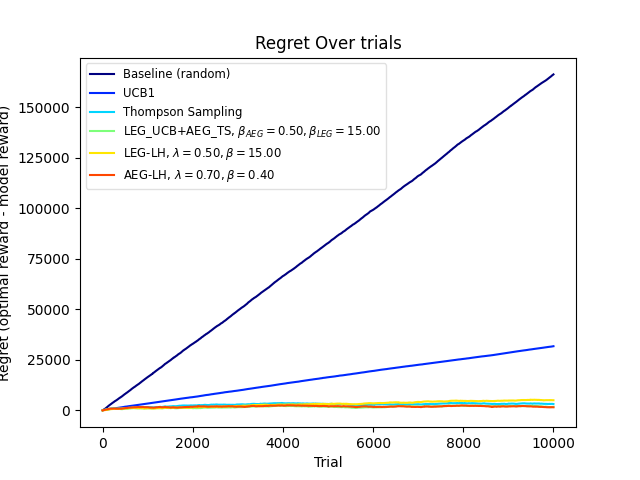
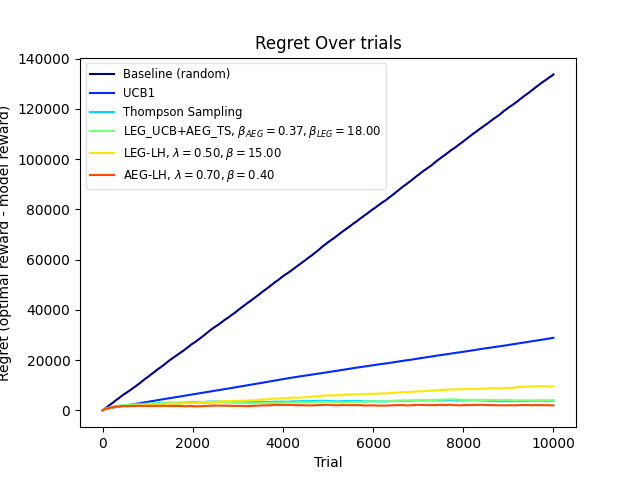
final commit

diff --git a/Driver.py b/Driver.py
@@ -12,9 +12,9 @@ def reload_imports():
 
 
 MIN_SEED = 90
-MAX_SEED = 98
-N = 10
-K = 2
+MAX_SEED = 99
+N = 20
+K = 1
 T = 10000
 POSSIBLE_REWARDS = np.asarray([5, 10, 20, 30, 50])
 get_reward_probabilities = lambda: np.random.dirichlet(np.ones_like(POSSIBLE_REWARDS))
@@ -128,6 +128,20 @@ convergences, rewards, fr_metrics, regret = average_over_seeds(
     model_parameters_list)
 vis.plot_lambda_beta_surface(beta_list, lambda_list, lambda_beta_rewards[1:], title="Reward Slope")
 vis.plot_lambda_beta_surface(beta_list, lambda_list, lambda_beta_regret[1:], title="Regret Slope")
+# %%
+model_type_list = [ModelType.OPTIMAL_BASELINE] + [ModelType.SMART_MODEL for i in range(225)]
+aeg_beta_handle = np.linspace(0.1, 0.9, 15)
+leg_beta_handle = np.linspace(10, 40, aeg_beta_handle.size)
+# beta_list = lambda_list.copy()
+model_parameters_list = [{}] + [{"leg_beta_handle": i, "aeg_beta_handle": j} for i in leg_beta_handle for j
+                                in aeg_beta_handle]
+lambda_beta_convergences, lambda_beta_rewards, lambda_beta_fr_metrics, lambda_beta_regret = average_over_seeds(
+    model_type_list,
+    model_parameters_list)
+#%%
+vis.plot_lambda_beta_surface(leg_beta_handle, aeg_beta_handle, lambda_beta_rewards[1:], title="Reward Slope")
+#%%
+vis.plot_lambda_beta_surface(leg_beta_handle, aeg_beta_handle, lambda_beta_regret[1:], title="Regret Slope")
 
 # %% lambda hybrid comparisons
 model_type_list = [ModelType.OPTIMAL_BASELINE,

diff --git a/HybridModels.py b/HybridModels.py
@@ -388,8 +388,8 @@ class SmartModel(BaseModel):
         return r"LEG_UCB+AEG_TS, $\beta_{AEG}=%.2f, \beta_{LEG}=%.2f$" % (
             self.ts_model.beta_handle, self.ucb_model.beta_handle)
 
-    def __init__(self, machines, num_to_choose: int, num_trials: int, possible_rewards, leg_beta_handle=15,
-                 aeg_beta_handle=.5):
+    def __init__(self, machines, num_to_choose: int, num_trials: int, possible_rewards, leg_beta_handle=18,
+                 aeg_beta_handle=.37):
         from ModelFactory import ModelType
         super().__init__(machines, num_to_choose, num_trials, possible_rewards)
         self.ucb_model = ModelType.LEG_UCB.value(machines, num_to_choose, num_trials, possible_rewards, leg_beta_handle)
